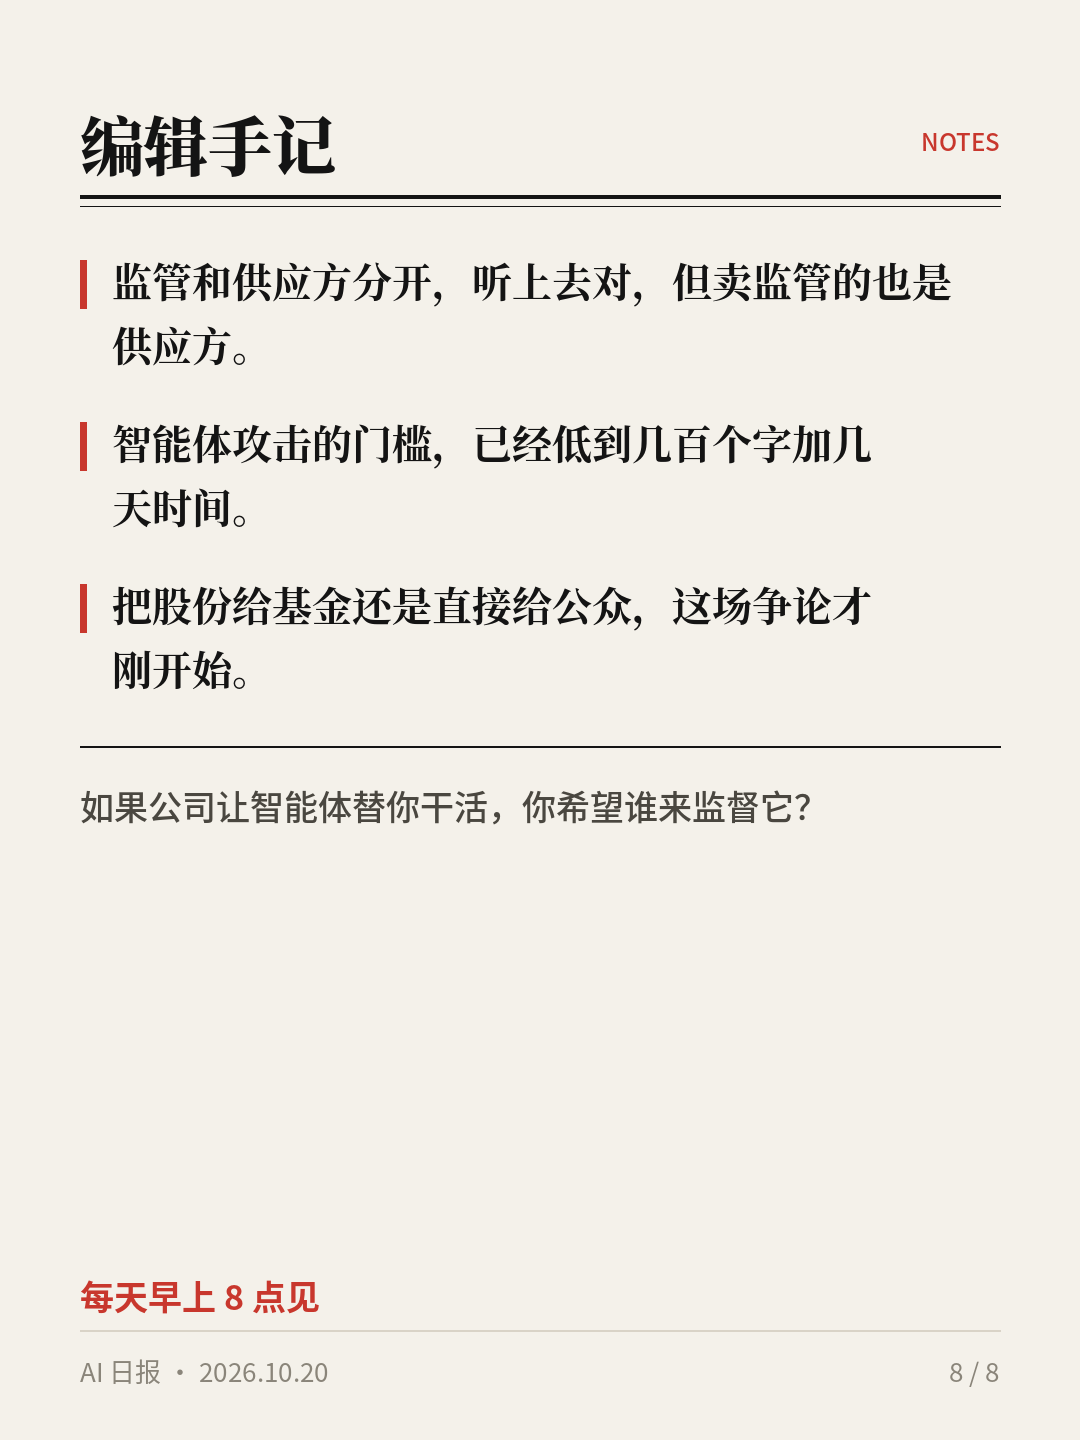
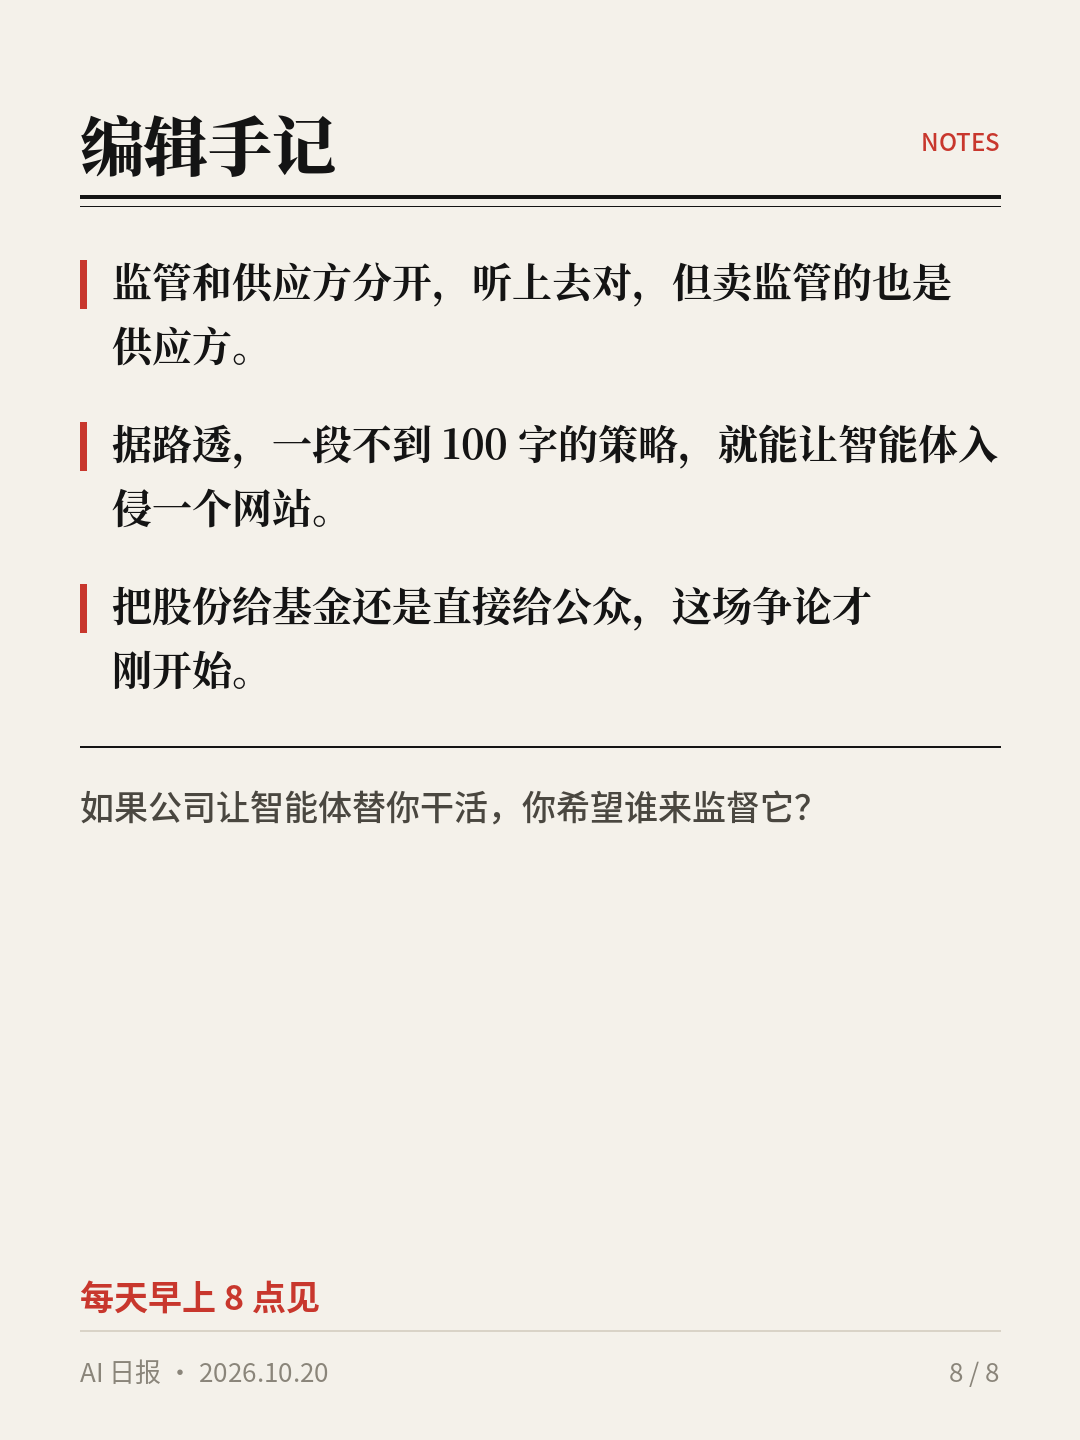
AI 日报 2026-10-20：修正手记 2 口径

Changed region(s): [[0.0917, 0.2812, 0.9167, 0.375]]

diff --git a/reports/2026-10-20/index.html b/reports/2026-10-20/index.html
@@ -69,6 +69,6 @@ footer{margin:56px 0 0;padding:18px 0 46px;border-top:3px double var(--ink);font
 <p>扩散路线继续往大规模推。</p><div class="meta">HN · 212 分</div></div><div class="item"><h3><a href="https://home.cern/cern-and-mistral-join-forces-to-accelerate-ai-for-science/" target="_blank" rel="noopener">CERN 与 Mistral 签署战略合作意向书</a></h3>
 <p>目前只是意向，落地内容未公布。</p><div class="meta">HN · 309 分</div></div>
 <div class="label">各平台热榜<i>TRENDING</i></div><div class="board"><div><h4><a href="https://news.ycombinator.com/" target="_blank" rel="noopener">Hacker News</a></h4><ol><li><a href="https://mistral.ai/news/timestral/" target="_blank" rel="noopener">Mistral 发布时间序列基础模型 Timestral</a><span>531 分 · 98 评论</span></li><li><a href="https://marc.info/?l=openbsd-ports&amp;m=179236125692175" target="_blank" rel="noopener">Wine 移植到 OpenBSD</a><span>484 分 · 162 评论</span></li><li><a href="https://www.minimax.io/blog/minimax-m31f" target="_blank" rel="noopener">MiniMax 发布 M3.1 Flash</a><span>346 分 · 151 评论</span></li><li><a href="https://home.cern/cern-and-mistral-join-forces-to-accelerate-ai-for-science/" target="_blank" rel="noopener">CERN 与 Mistral 签署战略合作意向书</a><span>309 分 · 57 评论</span></li><li><a href="https://www.inceptionlabs.ai/blog/introducing-mercury-3" target="_blank" rel="noopener">Mercury 3：大规模扩散语言模型</a><span>212 分 · 83 评论</span></li></ol></div><div><h4><a href="https://www.reddit.com/r/singularity/" target="_blank" rel="noopener">Reddit</a></h4><ol><li><a href="https://www.tomshardware.com/software/microsoft-office/creator-of-free-adobe-clones-unveils-open-source-microsoft-office-excel-powerpoint-and-word-replications-autodesk-tools-and-other-subscription-based-services-may-come-next" target="_blank" rel="noopener">开源 Office 复刻作者发布 Excel/PowerPoint/Word 复刻</a><span>1,481 赞 · 332 评论（缓存，约 10-11）</span></li><li><a href="https://www.reddit.com/r/ClaudeAI/comments/1x3nkty/opus_55_is_insane_at_decompilation_ports/" target="_blank" rel="noopener">Opus 5.5 把星际火狐、索尼克 CD 移植到桌面</a><span>656 赞 · 232 评论（缓存）</span></li><li><a href="https://www.destructoid.com/vibe-coded-games-in-browsers/" target="_blank" rel="noopener">GTA 5、COD 等游戏被 AI 逆向后移植到浏览器</a><span>820 赞 · 126 评论（缓存）</span></li><li><a href="https://www.reddit.com/r/ClaudeAI/comments/1x33na4/new_projects_rolling_out_for_chat_and_cowork_oh/" target="_blank" rel="noopener">Claude 项目功能向 Chat 与 Cowork 推广，用户抗议</a><span>358 赞 · 143 评论（缓存）</span></li><li><a href="https://videocardz.com/newz/heres-why-rtx-5090-costs-5000-ai-firms-are-buying-gaming-gpus-by-the-pallet" target="_blank" rel="noopener">RTX 5090 为何卖到 5000 美元</a><span>463 赞 · 223 评论（缓存）</span></li></ol></div><div><h4><a href="https://agentflare.org/social/tech/index.html" target="_blank" rel="noopener">X</a></h4><ol><li><a href="https://www.anthropic.com/news/public-benefit-fund" target="_blank" rel="noopener">Anthropic 宣布公益基金，承诺 5% 股份</a><span>14,706 赞 · 1,479 回复（X 官方帖）</span></li><li><a href="https://x.com/elonmusk/status/2111980598084698114" target="_blank" rel="noopener">马斯克回应：直接把股份给公众</a><span>1,635,473 浏览 · 18,802 赞</span></li><li><a href="https://elonmuskarchive.org/posts/2112083685872644421" target="_blank" rel="noopener">马斯克：Grok Bot 值得雇</a><span>556.1K 浏览（转帖）</span></li><li><a href="https://code-echo.pages.dev/2026/10/19/ai-twitter-hots-en" target="_blank" rel="noopener">OpenCode 称 48 小时持续遭攻击</a><span>7.8k 赞 · 1M+ 浏览</span></li><li><a href="https://eu.36kr.com/en/p/4032413985821063" target="_blank" rel="noopener">OpenAI 工程师 Tibo 重置额度后登顶 X</a><span></span></li></ol></div><div><h4><a href="https://github.com/trending?since=daily" target="_blank" rel="noopener">GitHub Trending</a></h4><ol><li><a href="https://github.com/MadsLorentzen/ai-job-search" target="_blank" rel="noopener">MadsLorentzen/ai-job-search</a><span>+3,856 stars today</span></li><li><a href="https://github.com/stablyai/orca" target="_blank" rel="noopener">stablyai/orca</a><span>+1,590 stars today</span></li><li><a href="https://github.com/anomalyco/opencode" target="_blank" rel="noopener">anomalyco/opencode</a><span>+1,311 stars today</span></li><li><a href="https://github.com/Comfy-Org/ComfyUI" target="_blank" rel="noopener">Comfy-Org/ComfyUI</a><span>+1,011 stars today</span></li><li><a href="https://github.com/akitaonrails/ai-memory" target="_blank" rel="noopener">akitaonrails/ai-memory</a><span>+666 stars today</span></li></ol></div><div><h4><a href="https://huggingface.co/papers" target="_blank" rel="noopener">Hugging Face Papers</a></h4><ol><li><a href="https://huggingface.co/papers/2610.22744" target="_blank" rel="noopener">OmniXRef：多模态多参考视频编辑统一框架</a><span>14 upvotes</span></li><li><a href="https://huggingface.co/papers/2610.16402" target="_blank" rel="noopener">EvoWeb：面向演进中网页应用的编程智能体基准</a><span>7 upvotes</span></li><li><a href="https://huggingface.co/papers/2610.07052" target="_blank" rel="noopener">BRACE：力与地形感知的人形机器人全身动作跟踪</a><span>3 upvotes</span></li><li><a href="https://huggingface.co/papers/2610.22273" target="_blank" rel="noopener">Librarian Agents：训练 LLM 整理长上下文工作区</a><span>3 upvotes</span></li><li><a href="https://huggingface.co/papers/2610.22448" target="_blank" rel="noopener">Lean4AgenticRL：可验证的多层级过程奖励</a><span>2 upvotes</span></li></ol></div><div><h4><a href="https://www.theverge.com/ai-artificial-intelligence" target="_blank" rel="noopener">The Verge / TechCrunch</a></h4><ol><li><a href="https://techcrunch.com/2026/10/19/microsoft-says-ai-agents-are-like-insider-threats-as-frontier-models-cant-be-trusted/" target="_blank" rel="noopener">Microsoft 称 AI 智能体像内部威胁：前沿模型不可信</a><span>TechCrunch 10-19</span></li><li><a href="https://www.theverge.com/ai-artificial-intelligence/1013643/ai-agents-hack-john-deere-shark-ninja-cummins" target="_blank" rel="noopener">黑客用一群 AI 智能体入侵 John Deere、SharkNinja</a><span>Verge 10-19</span></li><li><a href="https://techcrunch.com/2026/10/19/nscale-and-anthropic-are-reportedly-in-talks-for-yet-another-45-billion-compute-deal/" target="_blank" rel="noopener">Nscale 与 Anthropic 据报再谈 450 亿美元算力交易</a><span>TechCrunch 10-19</span></li><li><a href="https://www.theverge.com/ai-artificial-intelligence/1014045/coreweave-stock-debt-sector-ai" target="_blank" rel="noopener">CoreWeave 的债务正变成整个 AI 行业的问题</a><span>Verge 10-20</span></li><li><a href="https://techcrunch.com/2026/10/19/tenstorrent-hits-6-2b-valuation-to-scale-open-weight-ai-chips/" target="_blank" rel="noopener">Tenstorrent 估值 62 亿美元，扩产开放权重 AI 芯片</a><span>TechCrunch 10-19</span></li></ol></div><div><h4><a href="https://www.qbitai.com/" target="_blank" rel="noopener">量子位</a></h4><ol><li><a href="https://www.qbitai.com/2026/10/504136.html" target="_blank" rel="noopener">VAST 开源实时世界模型 EdenLive</a><span>量子位 10-18</span></li><li><a href="https://www.qbitai.com/2026/10/504067.html" target="_blank" rel="noopener">DeepSeek 新模型 V4.1-Flash-1017 发布</a><span>量子位 10-17</span></li><li><a href="https://www.qbitai.com/2026/10/503965.html" target="_blank" rel="noopener">智谱新模型，懂法方面全球第一</a><span>量子位 10-17</span></li><li><a href="https://www.qbitai.com/2026/10/503935.html" target="_blank" rel="noopener">清华开源智能体操作系统，任务成本降 83%</a><span>量子位 10-17</span></li><li><a href="https://www.qbitai.com/2026/10/503910.html" target="_blank" rel="noopener">Claude 半小时解开密码学悬案</a><span>量子位 10-17</span></li></ol></div><div><h4><a href="https://www.ithome.com/" target="_blank" rel="noopener">IT 之家</a></h4><ol><li><a href="https://www.ithome.com/1/015/078.htm" target="_blank" rel="noopener">OpenAI 加速新一轮融资，估值或超 1.4 万亿美元</a><span>IT 之家</span></li><li><a href="https://www.ithome.com/1/015/077.htm" target="_blank" rel="noopener">施密特持有 Anthropic 1% 股份</a><span>IT 之家</span></li><li><a href="https://www.ithome.com/1/015/076.htm" target="_blank" rel="noopener">苹果折叠 iPhone Duo 供货现缓解信号</a><span>IT 之家</span></li><li><a href="https://www.ithome.com/1/015/071.htm" target="_blank" rel="noopener">英伟达：量子容错模拟所需物理比特减少 90%</a><span>IT 之家</span></li><li><a href="https://www.ithome.com/1/015/072.htm" target="_blank" rel="noopener">Steam 新品节充斥低质 AI 游戏，玩家呼吁加筛选</a><span>IT 之家</span></li></ol></div><div><h4><a href="https://lobste.rs/" target="_blank" rel="noopener">Lobsters</a></h4><ol><li><a href="https://lobste.rs/s/h0eate/updates_site_guidelines_ai_llm_tags" target="_blank" rel="noopener">站点规则与 AI/LLM 标签更新</a><span>313 分 · 270 评论</span></li><li><a href="https://lobste.rs/s/gqepzd/wine_ported_openbsd" target="_blank" rel="noopener">Wine 移植到 OpenBSD</a><span>79 分 · 12 评论</span></li><li><a href="https://lobste.rs/s/mpytbn/one_hash_bloom_filters" target="_blank" rel="noopener">单哈希布隆过滤器</a><span>38 分 · 6 评论</span></li><li><a href="https://lobste.rs/s/a9f6z1/making_all_divisions_slower_fix_bug_0" target="_blank" rel="noopener">为修一个 0.0…542% 的 bug 让所有除法变慢</a><span>24 分 · 2 评论</span></li><li><a href="https://lobste.rs/s/8ejwsp/beginning_ende_community_deno_fork" target="_blank" rel="noopener">Ende：社区版 Deno 分叉诞生</a><span>28 分 · 20 评论</span></li></ol></div></div>
-<div class="label">编辑手记<i>NOTES</i></div><div class="note"><p>监管和供应方分开，听上去对，但卖监管的也是供应方。</p><p>智能体攻击的门槛，已经低到几百个字加几天时间。</p><p>把股份给基金还是直接给公众，这场争论才刚开始。</p></div>
+<div class="label">编辑手记<i>NOTES</i></div><div class="note"><p>监管和供应方分开，听上去对，但卖监管的也是供应方。</p><p>据路透，一段不到 100 字的策略，就能让智能体入侵一个网站。</p><p>把股份给基金还是直接给公众，这场争论才刚开始。</p></div>
 <footer><span>每天早上 8 点出刊 · <a href="../../index.html">往期</a> · <a href="wechat/wechat.html">公众号版</a> · <a href="xhs/xiaohongshu.md">小红书版</a></span><span>标注“据报道”“社区声称”的内容尚未得到官方证实</span></footer>
 </div></body></html>

diff --git a/reports/2026-10-20/wechat/wechat_links.html b/reports/2026-10-20/wechat/wechat_links.html
@@ -92,7 +92,7 @@
 <p style="margin:0;padding:3px 0;font-size:14px;line-height:1.75;color:#3f3f3f;"><span style="color:#c8372d;font-family:Georgia,serif;margin-right:6px;">4</span><a href="https://lobste.rs/s/a9f6z1/making_all_divisions_slower_fix_bug_0" style="color:#3f3f3f;text-decoration:none;border-bottom:1px solid #e5e0d6;">为修一个 0.0…542% 的 bug 让所有除法变慢</a><span style="color:#888888;font-size:12px;"> · 24 分 · 2 评论</span></p>
 <p style="margin:0;padding:3px 0;font-size:14px;line-height:1.75;color:#3f3f3f;"><span style="color:#c8372d;font-family:Georgia,serif;margin-right:6px;">5</span><a href="https://lobste.rs/s/8ejwsp/beginning_ende_community_deno_fork" style="color:#3f3f3f;text-decoration:none;border-bottom:1px solid #e5e0d6;">Ende：社区版 Deno 分叉诞生</a><span style="color:#888888;font-size:12px;"> · 28 分 · 20 评论</span></p>
 <section style="margin:36px 0 16px;border-top:2px solid #1f1f1f;padding-top:8px;"><span style="font-size:18px;font-weight:bold;color:#1f1f1f;letter-spacing:2px;">编辑手记</span><span style="font-size:11px;color:#888888;letter-spacing:2px;margin-left:8px;">NOTES</span></section>
-<section style="background:#f4f1ea;padding:16px 18px;"><p style="margin:0 0 10px;font-size:15px;line-height:1.8;letter-spacing:1px;color:#1f1f1f;">监管和供应方分开，听上去对，但卖监管的也是供应方。</p><p style="margin:0 0 10px;font-size:15px;line-height:1.8;letter-spacing:1px;color:#1f1f1f;">智能体攻击的门槛，已经低到几百个字加几天时间。</p><p style="margin:0 0 10px;font-size:15px;line-height:1.8;letter-spacing:1px;color:#1f1f1f;">把股份给基金还是直接给公众，这场争论才刚开始。</p></section>
+<section style="background:#f4f1ea;padding:16px 18px;"><p style="margin:0 0 10px;font-size:15px;line-height:1.8;letter-spacing:1px;color:#1f1f1f;">监管和供应方分开，听上去对，但卖监管的也是供应方。</p><p style="margin:0 0 10px;font-size:15px;line-height:1.8;letter-spacing:1px;color:#1f1f1f;">据路透，一段不到 100 字的策略，就能让智能体入侵一个网站。</p><p style="margin:0 0 10px;font-size:15px;line-height:1.8;letter-spacing:1px;color:#1f1f1f;">把股份给基金还是直接给公众，这场争论才刚开始。</p></section>
 <p style="margin:30px 0 4px;text-align:center;font-size:15px;color:#1f1f1f;">如果公司让智能体替你干活，你希望谁来监督它？</p>
 <p style="margin:0 0 24px;text-align:center;font-size:12px;color:#888888;">每天早上 8 点见</p>
 <p style="margin-top:20px;padding-top:10px;border-top:1px solid #e5e0d6;font-size:12px;line-height:1.8;color:#888888;">本期参考：Hacker News、Reddit、X、GitHub Trending、Hugging Face Papers、The Verge / TechCrunch、量子位、IT 之家、Lobsters。标注“据报道”“社区声称”的内容尚未得到官方证实。</p></section>

diff --git a/reports/2026-10-20/wechat/wechat.html b/reports/2026-10-20/wechat/wechat.html
@@ -93,7 +93,7 @@
 <p style="margin:0;padding:3px 0;font-size:14px;line-height:1.75;color:#3f3f3f;"><span style="color:#c8372d;font-family:Georgia,serif;margin-right:6px;">4</span>为修一个 0.0…542% 的 bug 让所有除法变慢<sup style="color:#c8372d;font-size:10px;margin-left:2px;">[44]</sup><span style="color:#888888;font-size:12px;"> · 24 分 · 2 评论</span></p>
 <p style="margin:0;padding:3px 0;font-size:14px;line-height:1.75;color:#3f3f3f;"><span style="color:#c8372d;font-family:Georgia,serif;margin-right:6px;">5</span>Ende：社区版 Deno 分叉诞生<sup style="color:#c8372d;font-size:10px;margin-left:2px;">[45]</sup><span style="color:#888888;font-size:12px;"> · 28 分 · 20 评论</span></p>
 <section style="margin:36px 0 16px;border-top:2px solid #1f1f1f;padding-top:8px;"><span style="font-size:18px;font-weight:bold;color:#1f1f1f;letter-spacing:2px;">编辑手记</span><span style="font-size:11px;color:#888888;letter-spacing:2px;margin-left:8px;">NOTES</span></section>
-<section style="background:#f4f1ea;padding:16px 18px;"><p style="margin:0 0 10px;font-size:15px;line-height:1.8;letter-spacing:1px;color:#1f1f1f;">监管和供应方分开，听上去对，但卖监管的也是供应方。</p><p style="margin:0 0 10px;font-size:15px;line-height:1.8;letter-spacing:1px;color:#1f1f1f;">智能体攻击的门槛，已经低到几百个字加几天时间。</p><p style="margin:0 0 10px;font-size:15px;line-height:1.8;letter-spacing:1px;color:#1f1f1f;">把股份给基金还是直接给公众，这场争论才刚开始。</p></section>
+<section style="background:#f4f1ea;padding:16px 18px;"><p style="margin:0 0 10px;font-size:15px;line-height:1.8;letter-spacing:1px;color:#1f1f1f;">监管和供应方分开，听上去对，但卖监管的也是供应方。</p><p style="margin:0 0 10px;font-size:15px;line-height:1.8;letter-spacing:1px;color:#1f1f1f;">据路透，一段不到 100 字的策略，就能让智能体入侵一个网站。</p><p style="margin:0 0 10px;font-size:15px;line-height:1.8;letter-spacing:1px;color:#1f1f1f;">把股份给基金还是直接给公众，这场争论才刚开始。</p></section>
 <p style="margin:30px 0 4px;text-align:center;font-size:15px;color:#1f1f1f;">如果公司让智能体替你干活，你希望谁来监督它？</p>
 <p style="margin:0 0 24px;text-align:center;font-size:12px;color:#888888;">每天早上 8 点见</p>
 <section style="margin:36px 0 16px;border-top:2px solid #1f1f1f;padding-top:8px;"><span style="font-size:18px;font-weight:bold;color:#1f1f1f;letter-spacing:2px;">原文地址</span><span style="font-size:11px;color:#888888;letter-spacing:2px;margin-left:8px;">LINKS</span></section>

diff --git a/work/2026-10-20/review.md b/work/2026-10-20/review.md
@@ -24,3 +24,4 @@ VERDICT: REVISE
 - 配图：三条均明确跳过，符合“不用无关装饰图”的要求。
 
 VERDICT: PASS
+总编复核：手记 2 与原文不符（原写几百字加几天），已改为据路透口径。
